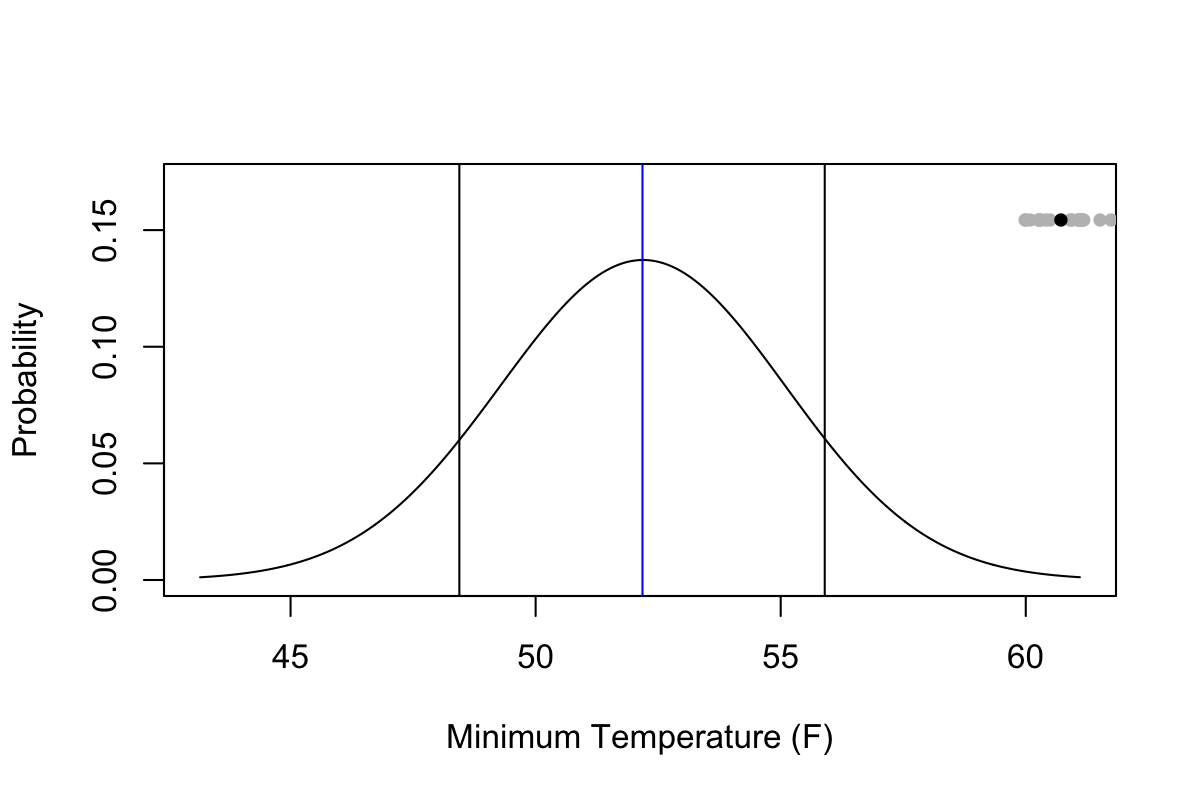
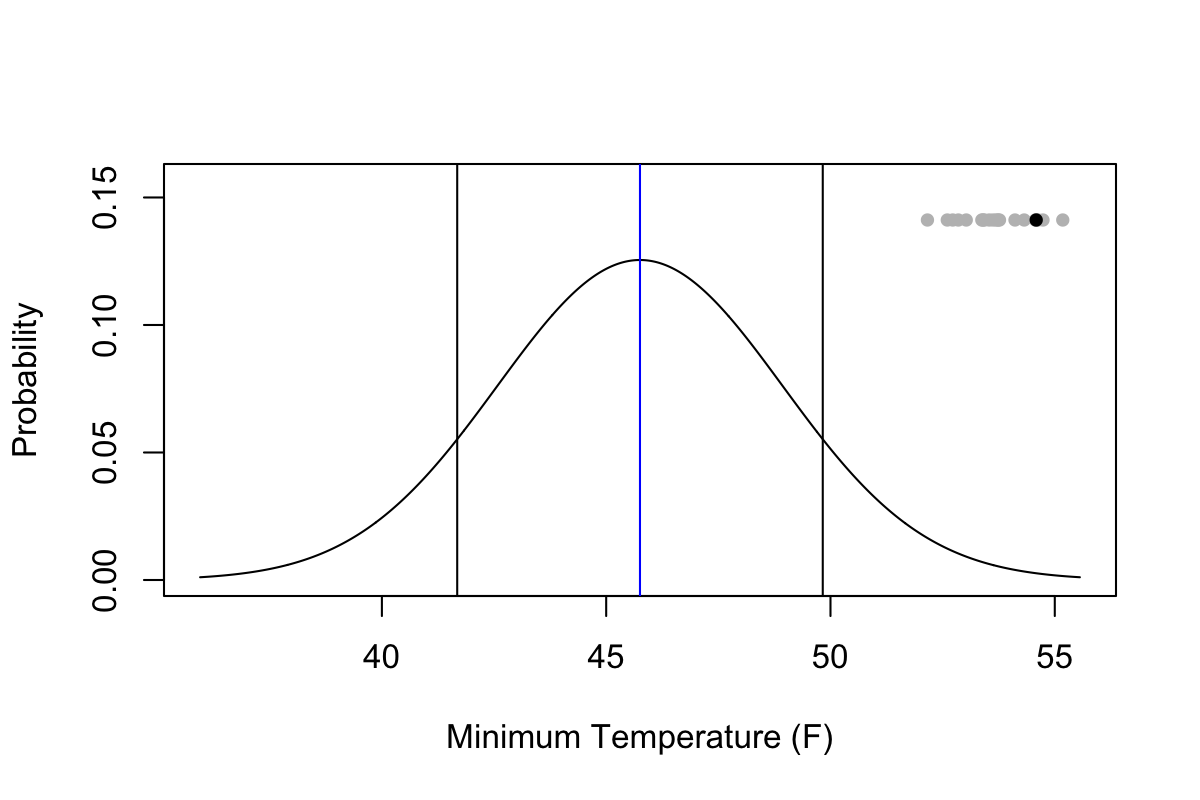
Updated wxchallenge.md

diff --git a/wxchallenge.md b/wxchallenge.md
@@ -11,11 +11,11 @@ This page provides some tools I use to help me in the [WxChallenge](http://www.w
 * [SREF Plume Viewer](http://www.spc.noaa.gov/exper/sref/srefplumes/)
 * [WxChallenge WxData](http://www.wxchallenge.com/tools/weatherdata.php)
 
-## Calibrated PDFs for KGRI for Friday, October 28
+## Calibrated PDFs for KGRI for Tuesday, November 1
 
 For information on Bayesian Model Averaging (BMA), scroll to the [bottom of this page](#bma). Click on each image to enlarge it.
 
-> Plots updated 2016-10-27 15:46 GMT
+> Plots updated 2016-10-31 17:16 GMT
 
 <p align="center"><strong>Maximum Temperature</strong></p>
 [<img src="tmax.png" width="700"/>](tmax.png)
